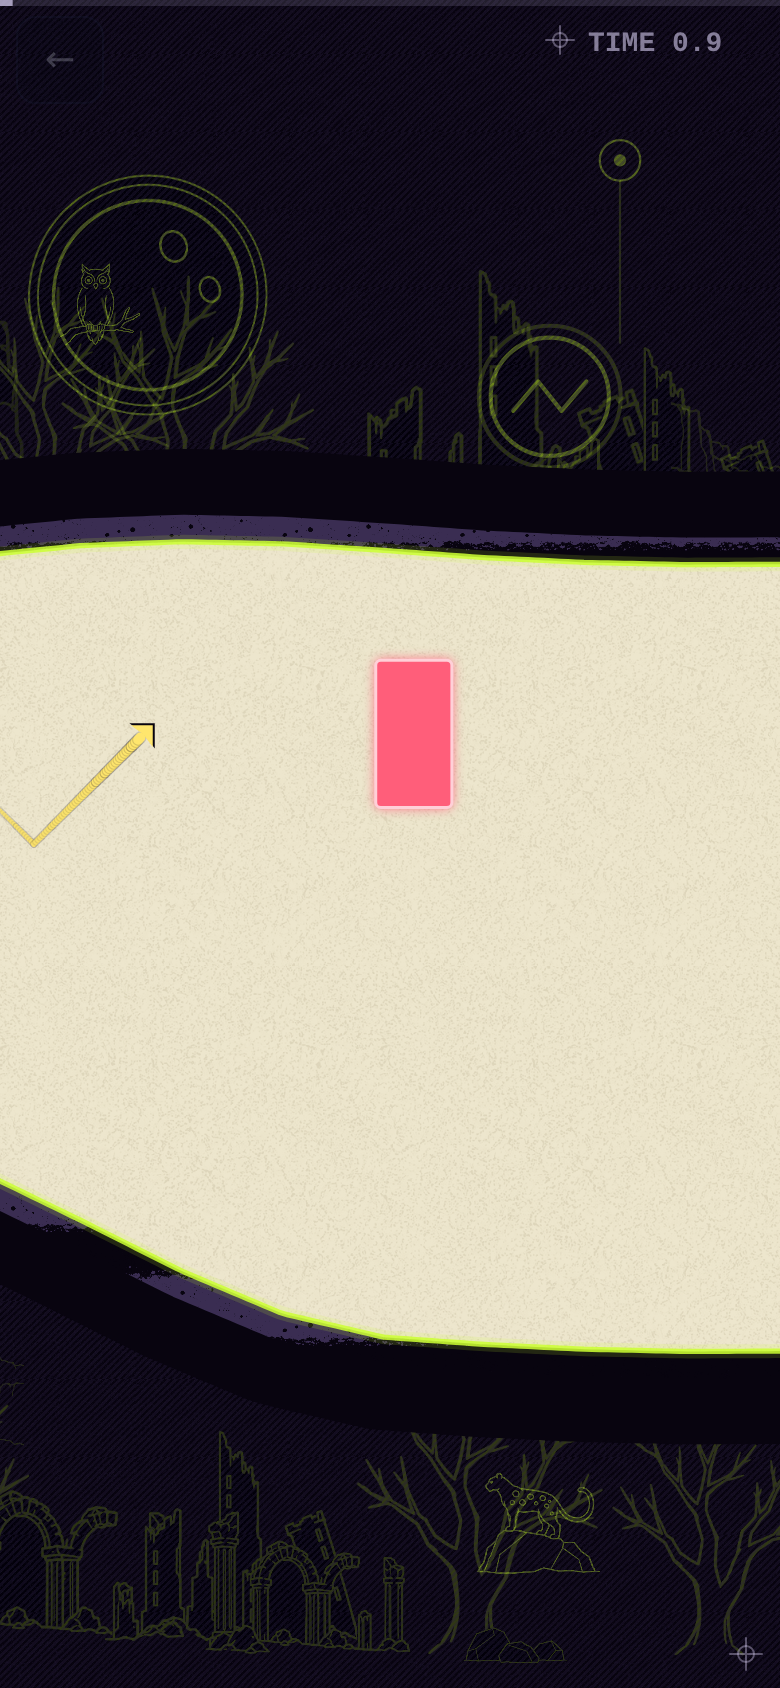
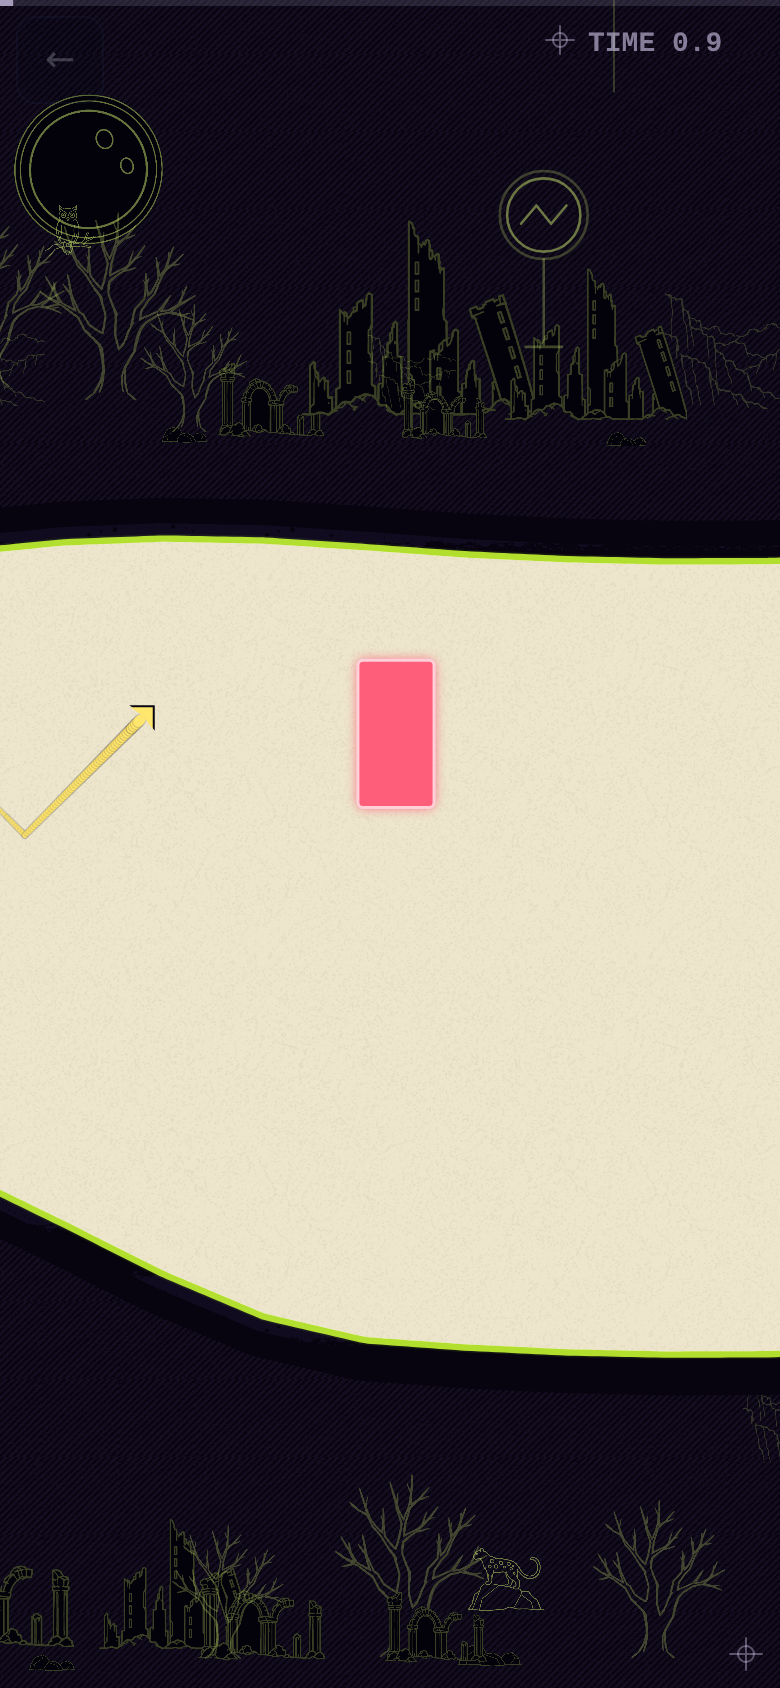
wave-runner: 시안과 단면을 대조해 비주얼 스타일을 맞췄다
경계의 색 배열을 같은 자리에서 뽑아 비교하니 셋이 드러났다.

1. 라임이 반대쪽에 있었다. 시안은 라임이 경계 바깥(벽 쪽)에 붙고 종이로 바로 넘어가는데,
   구현은 중앙 정렬이라 절반이 통로를 덮었다 — 판정은 그대로인데 화면에서만 통로가
   좁았다. 굵게 긋고 종이를 한 번 더 덮어 안쪽 절반을 잘라 냈다
2. 구현에만 밝은 보라 알갱이 띠(밝기 50)가 있었다. 시안의 벽은 경계 밖으로 바로 먹이다.
   죽는 영역을 밝히고 있었으므로 값과 두께를 내렸다
3. 선이 굵고 흐렸다. 선화를 선망 아래 깔아 결에 섞였고, 알파 키잉 구간이 넓어 흐린
   가장자리까지 살아남았다. 선화를 결 위로 올리고 키잉을 215→145 로 좁혔다

눈으로만 잡히는 것 하나 더 — 스케일. 시안은 작은 요소가 여럿, 구현은 큰 요소가 몇 개라
풍경이 코앞이었다. 배율 0.62 를 걸고 아이템 수를 늘렸다.

배경의 지평선이 통로를 따라가게 했다. 고정 지평선은 통로가 위쪽에 있는 스테이지에서
통째로 먹혔다 — 티어 3 의 첫 화면이 빈 것이 그 증상이었다.

그 과정에서 버그를 찾았다. 스트립을 일곱 화면으로 늘리면서 floor(scroll/폭) − 1 에서
두 장만 그리던 코드가 화면을 덮는 스트립을 건너뛰었다. 스트립이 화면 1.25배였을 때만
맞던 식이다.

남은 차이 둘을 문서에 적었다 — 점유율과 밝기를 동시에 맞출 수 없었고(지표가 통로 경계에
오염된다), 시안의 라임-종이 사이 어두운 실금은 판정선 옆에 어두운 선을 하나 더 두는
일이라 보류했다.

Claude-Session: https://claude.ai/code/session_01WnA455HqNZKLxy3VdjWgEK

diff --git a/projects/wave-runner/app/src/game/render.ts b/projects/wave-runner/app/src/game/render.ts
@@ -43,11 +43,11 @@ const COLOR = {
   /** 배경 덩어리 — 벽보다 어둡다. 밝아지는 것은 선뿐이다 */
   sceneMass: "#03010a",
   /** 경계 바깥의 잉크 알갱이 — 어긋난 판이 죽는 쪽으로만 번진 자리 */
-  grit: "#43355e",
+  grit: "#1b1230",
   /** 통로 = 잉크가 닿지 않은 종이 */
   paper: "#ede6cd",
   wallEdge: "#ccff33",
-  scene: "#ccff33",
+  scene: "#cbe86f",
   block: "#ff5e7a",
   blockEdge: "#ffd0d8",
   player: "#ffe66d",
@@ -321,10 +321,7 @@ export function render(ctx: CanvasRenderingContext2D, state: GameState, cssW: nu
   ctx.fillStyle = COLOR.wall;
   ctx.fillRect(0, 0, cssW, cssH);
 
-  // 2. 배경 선화 — 시차는 통로보다 느리다
-  drawScene(ctx, cssW, cssH, camX, view.zoom, COLOR.scene, COLOR.sceneMass);
-
-  // 3. 선망과 종이 결 — 벽 전체를 한 판으로 묶는다
+  // 2. 선망과 종이 결 — 벽 전체를 한 판으로 묶는다
   if (skinReady()) {
     const screen = platePattern(ctx, "gorge", COLOR.screen, 6, view.zoom, camX, offsetY);
     if (screen) {
@@ -344,8 +341,26 @@ export function render(ctx: CanvasRenderingContext2D, state: GameState, cssW: nu
     }
   }
 
+  /**
+   * 3. 배경 선화 — **결 위에** 그린다.
+   *
+   * 앞 판본은 선화를 먼저 깔고 그 위에 선망과 종이 결을 덮었다. 그러면 선이 결에
+   * 섞여 탁해지고, 시안과 비교했을 때 "흐린 선이 많은" 그림이 된다. 시안은 반대다 —
+   * **또렷한 선이 적게** 있다. 선화를 맨 위로 올리는 것이 그 차이의 가장 큰 레버다.
+   * 시차는 통로보다 느리다.
+   */
+  const band = Math.max(10, cssH * 0.026);
+  let minTop = cssH;
+  let maxBot = 0;
+  for (const [, py] of topPts) minTop = Math.min(minTop, py);
+  for (const [, py] of botPts) maxBot = Math.max(maxBot, py);
+  drawScene(
+    ctx, cssW, cssH, camX, view.zoom, COLOR.scene, COLOR.sceneMass,
+    Math.min(cssH * 0.40, minTop - band * 1.1),
+    Math.min(cssH, maxBot + band * 1.1 + cssH * 0.3)
+  );
+
   // 4. 침묵 띠 — 경계 안쪽 이만큼은 배경이 한 점도 없다
-  const band = Math.max(18, cssH * 0.055);
   ctx.save();
   ctx.lineJoin = "round";
   ctx.strokeStyle = COLOR.wall;
@@ -361,8 +376,8 @@ export function render(ctx: CanvasRenderingContext2D, state: GameState, cssW: nu
     ? platePattern(ctx, "inkEdge", COLOR.grit, 14, view.zoom, camX, offsetY)
     : null;
   ctx.strokeStyle = grit ?? COLOR.grit;
-  ctx.globalAlpha = grit ? 0.85 : 0.5;
-  ctx.lineWidth = Math.max(8, cssH * 0.016) * 2;
+  ctx.globalAlpha = grit ? 0.5 : 0.35;
+  ctx.lineWidth = Math.max(6, cssH * 0.011) * 2;
   ctx.stroke(edgeLine);
   ctx.globalAlpha = 1;
   ctx.restore();
@@ -370,34 +385,6 @@ export function render(ctx: CanvasRenderingContext2D, state: GameState, cssW: nu
   // 6. 종이 — 통로. 평평하다
   ctx.fillStyle = COLOR.paper;
   ctx.fill(corridor);
-  if (skinReady()) {
-    const paperGrain = platePattern(ctx, "grain", "#8d7f5c", 30, view.zoom, camX, offsetY);
-    if (paperGrain) {
-      ctx.save();
-      ctx.clip(corridor);
-      ctx.globalAlpha = 0.16;
-      ctx.fillStyle = paperGrain;
-      ctx.fillRect(0, 0, cssW, cssH);
-      ctx.restore();
-    }
-  }
-
-  // 칸막이 — 구멍 두 개가 아니라 길이 둘로 갈라진 것으로 읽혀야 한다
-  if (divider.length > 1) {
-    ctx.fillStyle = COLOR.wall;
-    ctx.fill(dividerPath);
-    const lens = skinReady()
-      ? platePattern(ctx, "corridor", COLOR.screen, 12, view.zoom, camX, offsetY)
-      : null;
-    if (lens) {
-      ctx.save();
-      ctx.clip(dividerPath);
-      ctx.globalAlpha = 0.85;
-      ctx.fillStyle = lens;
-      ctx.fillRect(0, 0, cssW, cssH);
-      ctx.restore();
-    }
-  }
 
   /**
    * 근접 강조 — 아바타 코앞 구간의 **실제 여유 거리**의 함수다.
@@ -419,30 +406,67 @@ export function render(ctx: CanvasRenderingContext2D, state: GameState, cssW: nu
   const near = Math.max(0, 1 - Math.max(0, nearest - rPx) / (rPx * 3));
 
   /**
+   * 7. 판정선 — **벽 쪽으로만 칠한다.**
+   *
+   * 시안의 단면을 재 보니 라임이 경계의 *바깥*(벽 쪽)에 있고 종이로 바로 넘어갔다.
+   * 구현은 선을 경로에 중앙 정렬해 절반이 통로를 덮고 있었다. 그만큼 통로가 좁아
+   * 보이고(판정은 그대로인데 화면만 좁다), 종이와 라임 사이에 회색 가장자리가 생긴다.
+   *
+   * 그래서 선을 굵게 긋고 **종이를 한 번 더 덮는다.** 안쪽 절반이 잘려 나가 바깥
+   * 절반만 남으므로, 통로 면적은 판정과 정확히 같고 자른 자리는 인쇄의 녹아웃처럼
+   * 깨끗하다. 글로우도 같은 방식으로 잘리므로 통로 안으로 번지지 않는다.
+   *
    * 글로우는 `shadowBlur` 이 아니라 2패스 스트로크다. Canvas2D 의 그림자는 DPR2 에서
    * 화면 전체 재래스터화라, 세그먼트 100개짜리 폴리라인 넷에 걸면 모바일 프레임 예산을
    * 혼자 먹는다. 굵고 옅은 선 + 가늘고 진한 선이면 눈으로는 같고 3~5배 싸다.
    */
-  const strokeEdges = (width: number, alpha: number) => {
+  const strokeOuter = (width: number, alpha: number) => {
     ctx.strokeStyle = COLOR.wallEdge;
     ctx.globalAlpha = alpha;
-    ctx.lineWidth = width;
-    for (const pts of [topPts, botPts]) {
-      ctx.beginPath();
-      pts.forEach(([px, py], i) => (i === 0 ? ctx.moveTo(px, py) : ctx.lineTo(px, py)));
-      ctx.stroke();
-    }
-    if (divider.length > 1) {
-      for (const idx of [1, 2]) {
-        ctx.beginPath();
-        divider.forEach((d, i) => (i === 0 ? ctx.moveTo(d[0], d[idx]) : ctx.lineTo(d[0], d[idx])));
-        ctx.stroke();
-      }
-    }
+    ctx.lineWidth = width * 2;
+    ctx.stroke(edgeLine);
     ctx.globalAlpha = 1;
   };
-  strokeEdges(7 + near * 5, 0.14 + near * 0.24);
-  strokeEdges(2.6, EDGE_INK);
+  strokeOuter(4 + near * 5, 0.07 + near * 0.2);
+  strokeOuter(3.2, EDGE_INK);
+  ctx.fillStyle = COLOR.paper;
+  ctx.fill(corridor);
+
+  // 8. 종이 결 — 통로 안에만. 결은 여기서만 평평함을 깨뜨린다
+  if (skinReady()) {
+    const paperGrain = platePattern(ctx, "grain", "#a3936a", 30, view.zoom, camX, offsetY);
+    if (paperGrain) {
+      ctx.save();
+      ctx.clip(corridor);
+      ctx.globalAlpha = 0.1;
+      ctx.fillStyle = paperGrain;
+      ctx.fillRect(0, 0, cssW, cssH);
+      ctx.restore();
+    }
+  }
+
+  // 9. 칸막이 — 구멍 두 개가 아니라 길이 둘로 갈라진 것으로 읽혀야 한다.
+  //    통로 안의 벽이므로 종이를 덮은 뒤에 온다
+  if (divider.length > 1) {
+    ctx.fillStyle = COLOR.wall;
+    ctx.fill(dividerPath);
+    const lens = skinReady()
+      ? platePattern(ctx, "corridor", COLOR.screen, 12, view.zoom, camX, offsetY)
+      : null;
+    if (lens) {
+      ctx.save();
+      ctx.clip(dividerPath);
+      ctx.globalAlpha = 0.85;
+      ctx.fillStyle = lens;
+      ctx.fillRect(0, 0, cssW, cssH);
+      ctx.restore();
+    }
+    ctx.strokeStyle = COLOR.wallEdge;
+    ctx.globalAlpha = EDGE_INK;
+    ctx.lineWidth = 3.2;
+    ctx.stroke(dividerPath);
+    ctx.globalAlpha = 1;
+  }
 
   // 섹터 장애물과 셔터
   const fromX = camX - 60;

diff --git a/projects/wave-runner/app/src/game/scene.ts b/projects/wave-runner/app/src/game/scene.ts
@@ -24,10 +24,20 @@ import type { MotifId } from "./skin";
 export const SCENE_PARALLAX = 0.34;
 
 /** 농도 셋. 이 값이 곧 거리다. */
-const D = { land: 0.14, build: 0.21, sign: 0.40 } as const;
+const D = { land: 0.19, build: 0.27, sign: 0.50 } as const;
 
 /** 스트립 길이(화면 수). 한 판이 약 7.5화면이라 반복이 한 번을 넘지 않는다. */
 const SCREENS = 7;
+
+/**
+ * 모든 모티프의 크기 배율.
+ *
+ * 시안과 나란히 놓고 보면 가장 큰 차이가 **스케일**이었다. 시안은 작은 요소가
+ * 여럿이라 풍경이 멀리 있고, 구현은 큰 요소가 몇 개라 풍경이 코앞에 있었다.
+ * 크기를 줄이면 선도 같이 가늘어져 "또렷한 선이 적게"라는 시안의 성격에 함께 다가간다.
+ * 나뭇가지에 앉는 부엉이와 바위 위의 표범은 이 배율에 맞춰 좌표를 다시 잡아 두었다.
+ */
+const SCALE = 0.62;
 
 interface Item {
   id: MotifId;
@@ -52,11 +62,15 @@ const OPENING: Item[] = [
   { id: "moon",    at: 0.150, h: 0.168, base: 0.262, alpha: D.sign, mass: true },
   { id: "tree",    at: 0.015, h: 0.175, base: 0.340, alpha: D.build },
   { id: "tree",    at: 0.165, h: 0.190, base: 0.348, alpha: D.build },
-  { id: "owl",     at: 0.205, h: 0.055, base: 0.208, alpha: D.sign },
+  { id: "owl",     at: 0.199, h: 0.055, base: 0.2612, alpha: D.sign },
   { id: "boulder", at: 0.355, h: 0.045, base: 0.372, alpha: D.build, mass: true },
   { id: "ruins",   at: 0.425, h: 0.105, base: 0.372, alpha: D.build, mass: true },
   { id: "skyline", at: 0.535, h: 0.225, base: 0.366, alpha: D.build, mass: true },
   { id: "skyline", at: 0.795, h: 0.175, base: 0.366, alpha: D.build, mass: true },
+  { id: "tree",    at: 0.305, h: 0.130, base: 0.366, alpha: D.build },
+  { id: "ruins",   at: 0.660, h: 0.085, base: 0.372, alpha: D.build, mass: true },
+  { id: "boulder", at: 0.925, h: 0.040, base: 0.374, alpha: D.build, mass: true },
+  { id: "ridge",   at: 0.62, h: 0.085, base: 0.352, alpha: D.land },
 
   { id: "ridge",   at: -0.02, h: 0.09, base: 0.862, alpha: D.land },
   { id: "ruins",   at: 0.025, h: 0.165, base: 0.985, alpha: D.build, mass: true },
@@ -64,8 +78,11 @@ const OPENING: Item[] = [
   { id: "ruins",   at: 0.400, h: 0.125, base: 0.990, alpha: D.build, mass: true },
   { id: "tree",    at: 0.545, h: 0.185, base: 0.985, alpha: D.build },
   { id: "boulder", at: 0.735, h: 0.062, base: 0.990, alpha: D.build, mass: true },
-  { id: "leopard", at: 0.752, h: 0.073, base: 0.936, alpha: D.sign },
-  { id: "tree",    at: 0.880, h: 0.160, base: 0.985, alpha: D.build }
+  { id: "leopard", at: 0.748, h: 0.073, base: 0.9565, alpha: D.sign },
+  { id: "tree",    at: 0.880, h: 0.160, base: 0.985, alpha: D.build },
+  { id: "boulder", at: 0.185, h: 0.045, base: 0.992, alpha: D.build, mass: true },
+  { id: "ruins",   at: 0.640, h: 0.100, base: 0.990, alpha: D.build, mass: true },
+  { id: "tree",    at: 0.345, h: 0.135, base: 0.985, alpha: D.build }
 ];
 
 /** 나머지 여섯 화면 — 같은 어휘, 다른 문장. 첫 화면과 겹치는 배열이 없도록 짰다. */
@@ -113,7 +130,7 @@ const REST: Item[] = [
   // 6화면 — 부엉이가 다시 온다, 다른 나무에
   { id: "cliff",   at: 5.02, h: 0.26, base: 0.340, alpha: D.land, mass: true },
   { id: "tree",    at: 5.28, h: 0.205, base: 0.348, alpha: D.build },
-  { id: "owl",     at: 5.318, h: 0.052, base: 0.225, alpha: D.sign },
+  { id: "owl",     at: 5.312, h: 0.052, base: 0.2717, alpha: D.sign },
   { id: "skyline", at: 5.52, h: 0.19, base: 0.366, alpha: D.build, mass: true },
   { id: "ridge",   at: 5.75, h: 0.11, base: 0.352, alpha: D.land },
   { id: "ruins",   at: 5.15, h: 0.15, base: 0.988, alpha: D.build, mass: true },
@@ -126,7 +143,7 @@ const REST: Item[] = [
   { id: "skyline", at: 6.30, h: 0.17, base: 0.366, alpha: D.build, mass: true },
   { id: "tree",    at: 6.70, h: 0.155, base: 0.350, alpha: D.build },
   { id: "boulder", at: 6.20, h: 0.085, base: 0.990, alpha: D.build, mass: true },
-  { id: "leopard", at: 6.222, h: 0.078, base: 0.918, alpha: D.sign },
+  { id: "leopard", at: 6.216, h: 0.078, base: 0.9454, alpha: D.sign },
   { id: "ruins",   at: 6.50, h: 0.13, base: 0.990, alpha: D.build, mass: true },
   { id: "tree",    at: 6.78, h: 0.20, base: 0.985, alpha: D.build }
 ];
@@ -200,23 +217,47 @@ export function drawScene(
   camX: number,
   zoom: number,
   ink: string,
-  mass: string
+  mass: string,
+  /**
+   * 위 띠의 지평선(화면 px). 통로가 화면 위쪽에 있는 스테이지에서는 고정된 지평선이
+   * 통로에 먹혀 배경이 통째로 사라진다 — 티어 3 에서 첫 화면이 빈 것이 그 증상이었다.
+   * 그래서 지평선을 통로 위 경계에 맞춰 올린다. 배경은 코스가 아니므로 월드에 붙어
+   * 있을 이유가 없고, 통로 바로 위에 붙어 있는 편이 시안의 구성에도 가깝다.
+   */
+  topGround: number,
+  /**
+   * 아래 띠의 지평선. 통로가 화면 위쪽에 있으면 통로와 아래 풍경 사이가 통째로 비어
+   * 구성이 끊긴다. 화면 바닥을 넘지 않는 선에서 통로 쪽으로 끌어올린다.
+   */
+  botGround: number
 ): void {
   if (!skinReady()) return;
   const stripW = cssW * SCREENS;
   const scroll = camX * zoom * SCENE_PARALLAX;
-  const first = Math.floor(scroll / stripW) - 1;
+  /**
+   * 화면에 걸치는 스트립만 그린다. `floor(scroll/stripW) - 1` 로 시작해 두 장만
+   * 돌리던 앞 판본은 스트립이 화면 1.25배였을 때만 맞았다 — 7화면으로 늘리자
+   * 출발 직후(scroll 이 음수) 정작 화면을 덮는 0번 스트립이 범위 밖으로 빠져
+   * **배경이 통째로 사라졌다.** 이제 보이는 구간에서 직접 구한다.
+   */
+  const first = Math.floor(scroll / stripW);
+  const last = Math.floor((scroll + cssW) / stripW);
 
   ctx.save();
-  for (let s = first; s <= first + 1; s += 1) {
+  for (let s = first; s <= last; s += 1) {
     const ox = s * stripW - scroll;
     for (const it of ITEMS) {
       const x = ox + it.at * cssW;
       const size = motifSize(it.id);
-      const h = cssH * it.h;
+      const h = cssH * it.h * SCALE;
       const w = (size.w / size.h) * h;
       if (x + w < -40 || x > cssW + 40) continue;
-      const y = cssH * it.base - h;
+      // 위 띠는 지평선에서 띄운 거리를 유지한 채 통로를 따라 올라간다
+      const bottom =
+        it.base <= 0.5
+          ? topGround - (0.40 - it.base) * cssH
+          : botGround - (1 - it.base) * cssH;
+      const y = bottom - h;
       if (it.mass) {
         const solid = motifFill(it.id, mass);
         if (solid) {
@@ -232,8 +273,9 @@ export function drawScene(
     for (const sign of SIGNS) {
       const x = ox + sign.at * cssW;
       if (x < -60 || x > cssW + 60) continue;
-      if (sign.kind === "emblem") drawEmblem(ctx, x, cssH * sign.y, cssH * 0.035, ink);
-      else drawBeacon(ctx, x, cssH * sign.y, cssH * 0.012, ink);
+      const sy = topGround - (0.40 - sign.y) * cssH;
+      if (sign.kind === "emblem") drawEmblem(ctx, x, sy, cssH * 0.035 * SCALE, ink);
+      else drawBeacon(ctx, x, sy, cssH * 0.012 * SCALE, ink);
     }
   }
   ctx.globalAlpha = 1;

diff --git a/projects/wave-runner/app/src/game/skin.ts b/projects/wave-runner/app/src/game/skin.ts
@@ -67,8 +67,9 @@ export function skinReady(): boolean {
  * 흰 바탕의 검정 잉크를 알파로 옮긴다. 색은 여기서 정하지 않는다 —
  * 알파만 남기고 잉크는 `tint()` 가 입힌다.
  *
- * 임계값을 하나로 끊지 않고 240→110 구간에서 부드럽게 올린다. 선화의 가장자리가
- * 계단이 되면 축소해서 그릴 때 선이 끊어져 보인다.
+ * 임계값을 하나로 끊지 않고 215→145 구간에서 부드럽게 올린다. 계단이 되면 축소해
+ * 그릴 때 선이 끊어져 보이고, 구간을 넓게 잡으면 선의 흐린 가장자리까지 살아남아
+ * **선이 굵고 탁해진다** — 시안과 비교했을 때 "흐린 선이 많은" 그림이 되는 원인이었다.
  */
 function keyOut(img: HTMLImageElement, r: Rect, id: string): Keyed {
   const c = document.createElement("canvas");
@@ -80,7 +81,7 @@ function keyOut(img: HTMLImageElement, r: Rect, id: string): Keyed {
   const p = d.data;
   for (let i = 0; i < p.length; i += 4) {
     const lum = 0.2126 * p[i] + 0.7152 * p[i + 1] + 0.0722 * p[i + 2];
-    const a = Math.max(0, Math.min(1, (240 - lum) / 130));
+    const a = Math.max(0, Math.min(1, (215 - lum) / 70));
     p[i] = 255;
     p[i + 1] = 255;
     p[i + 2] = 255;

diff --git a/projects/wave-runner/notes/visual-concept-silkscreen.md b/projects/wave-runner/notes/visual-concept-silkscreen.md
@@ -278,6 +278,48 @@
 5. **통로를 파내는 순서**가 규칙 1과 5의 구현이다. 벽을 두 폴리곤으로 칠하는 대신 화면을
    먹으로 덮고 통로를 파내면, 결이 통로 안으로 새는 일이 구조적으로 불가능해진다
 
+## 시안과 대조해 고친 것 (0.9.0 마감)
+
+구현과 시안을 나란히 놓고 **경계 단면의 색 배열**을 뽑아 비교했다. 눈으로 "비슷하다"
+하는 대신 같은 자리의 픽셀을 늘어놓으면 차이가 바로 나온다.
+
+| 시안 단면(경계 기준) | 구현(고치기 전) |
+|---|---|
+| −12 먹 → **−10~−4 라임** → −2 어두운 실금 → +0 종이 | −34~−22 **밝은 보라 띠** → −20~−8 먹 → +0 라임 → 종이 |
+
+여기서 셋이 드러났다.
+
+1. **라임이 반대쪽에 있었다.** 시안은 라임이 경계 *바깥*(벽 쪽)에 붙고 종이로 바로
+   넘어간다. 구현은 선을 경로에 중앙 정렬해 **절반이 통로를 덮고** 있었다 — 판정은
+   그대로인데 화면에서만 통로가 좁았다. 굵게 긋고 종이를 한 번 더 덮어 안쪽 절반을
+   잘라 냈다. 통로 면적이 판정과 정확히 같아졌다
+2. **구현에만 밝은 알갱이 띠가 있었다.** 시안의 벽은 경계 밖으로 바로 먹이다. 그
+   띠(밝기 50)가 죽는 영역을 밝히고 있었으므로 값과 두께를 함께 내렸다
+3. **선이 굵고 흐렸다.** 시안은 "또렷한 선이 적게", 구현은 "흐린 선이 많이"였다.
+   원인이 둘이었다 — 선화를 선망 **아래** 깔아 결에 섞였고, 알파 키잉 구간(240→110)이
+   넓어 흐린 가장자리까지 살아남았다. 선화를 결 위로 올리고 키잉을 215→145 로 좁혔다
+
+그리고 눈으로만 잡히는 것 하나가 더 있었다 — **스케일**. 시안은 작은 요소가 여럿이라
+풍경이 멀고, 구현은 큰 요소가 몇 개라 코앞이었다. 전체 배율 0.62 를 걸고 아이템 수를
+늘렸다. 크기를 줄이면 선도 같이 가늘어져 위 3번과 같은 방향으로 움직인다.
+
+**배경의 지평선은 통로를 따라간다.** 고정 지평선은 통로가 화면 위쪽에 있는 스테이지에서
+통째로 먹혔다(티어 3 의 첫 화면이 비었다). 위 띠는 통로 위 경계에, 아래 띠는 아래
+경계에 맞춰 끌어당긴다 — 배경은 코스가 아니므로 월드에 붙어 있을 이유가 없다.
+
+그 과정에서 버그 하나를 찾았다. 스트립을 일곱 화면으로 늘리면서 `floor(scroll/폭) − 1`
+에서 두 장만 그리던 코드가 **화면을 덮는 스트립을 건너뛰었다.** 스트립이 화면 1.25배였을
+때만 맞던 식이었다. 보이는 구간에서 직접 구하도록 고쳤다.
+
+### 남은 차이
+
+- **점유율과 밝기를 동시에 맞출 수 없었다.** 시안 (0.72%, 139.9), 구현 (0.60%, 193).
+  구현은 "적고 밝은 선", 시안은 "많고 옅은 선"이다. 다만 이 지표는 통로 경계가 측정
+  띠에 들어오면 오염된다(티어 3 처럼 통로가 위에 있으면 라임 경계가 같이 세어진다).
+  마지막 판단은 수치가 아니라 눈으로 했다
+- **시안에는 라임과 종이 사이에 어두운 실금**(밝기 68)이 한 줄 있다. 구현은 라임이 종이에
+  바로 닿는다. 넣을 수 있지만 판정선 옆에 어두운 선을 하나 더 두는 일이라 보류했다
+
 ## 파일
 
 | 경로 | 무엇 |
